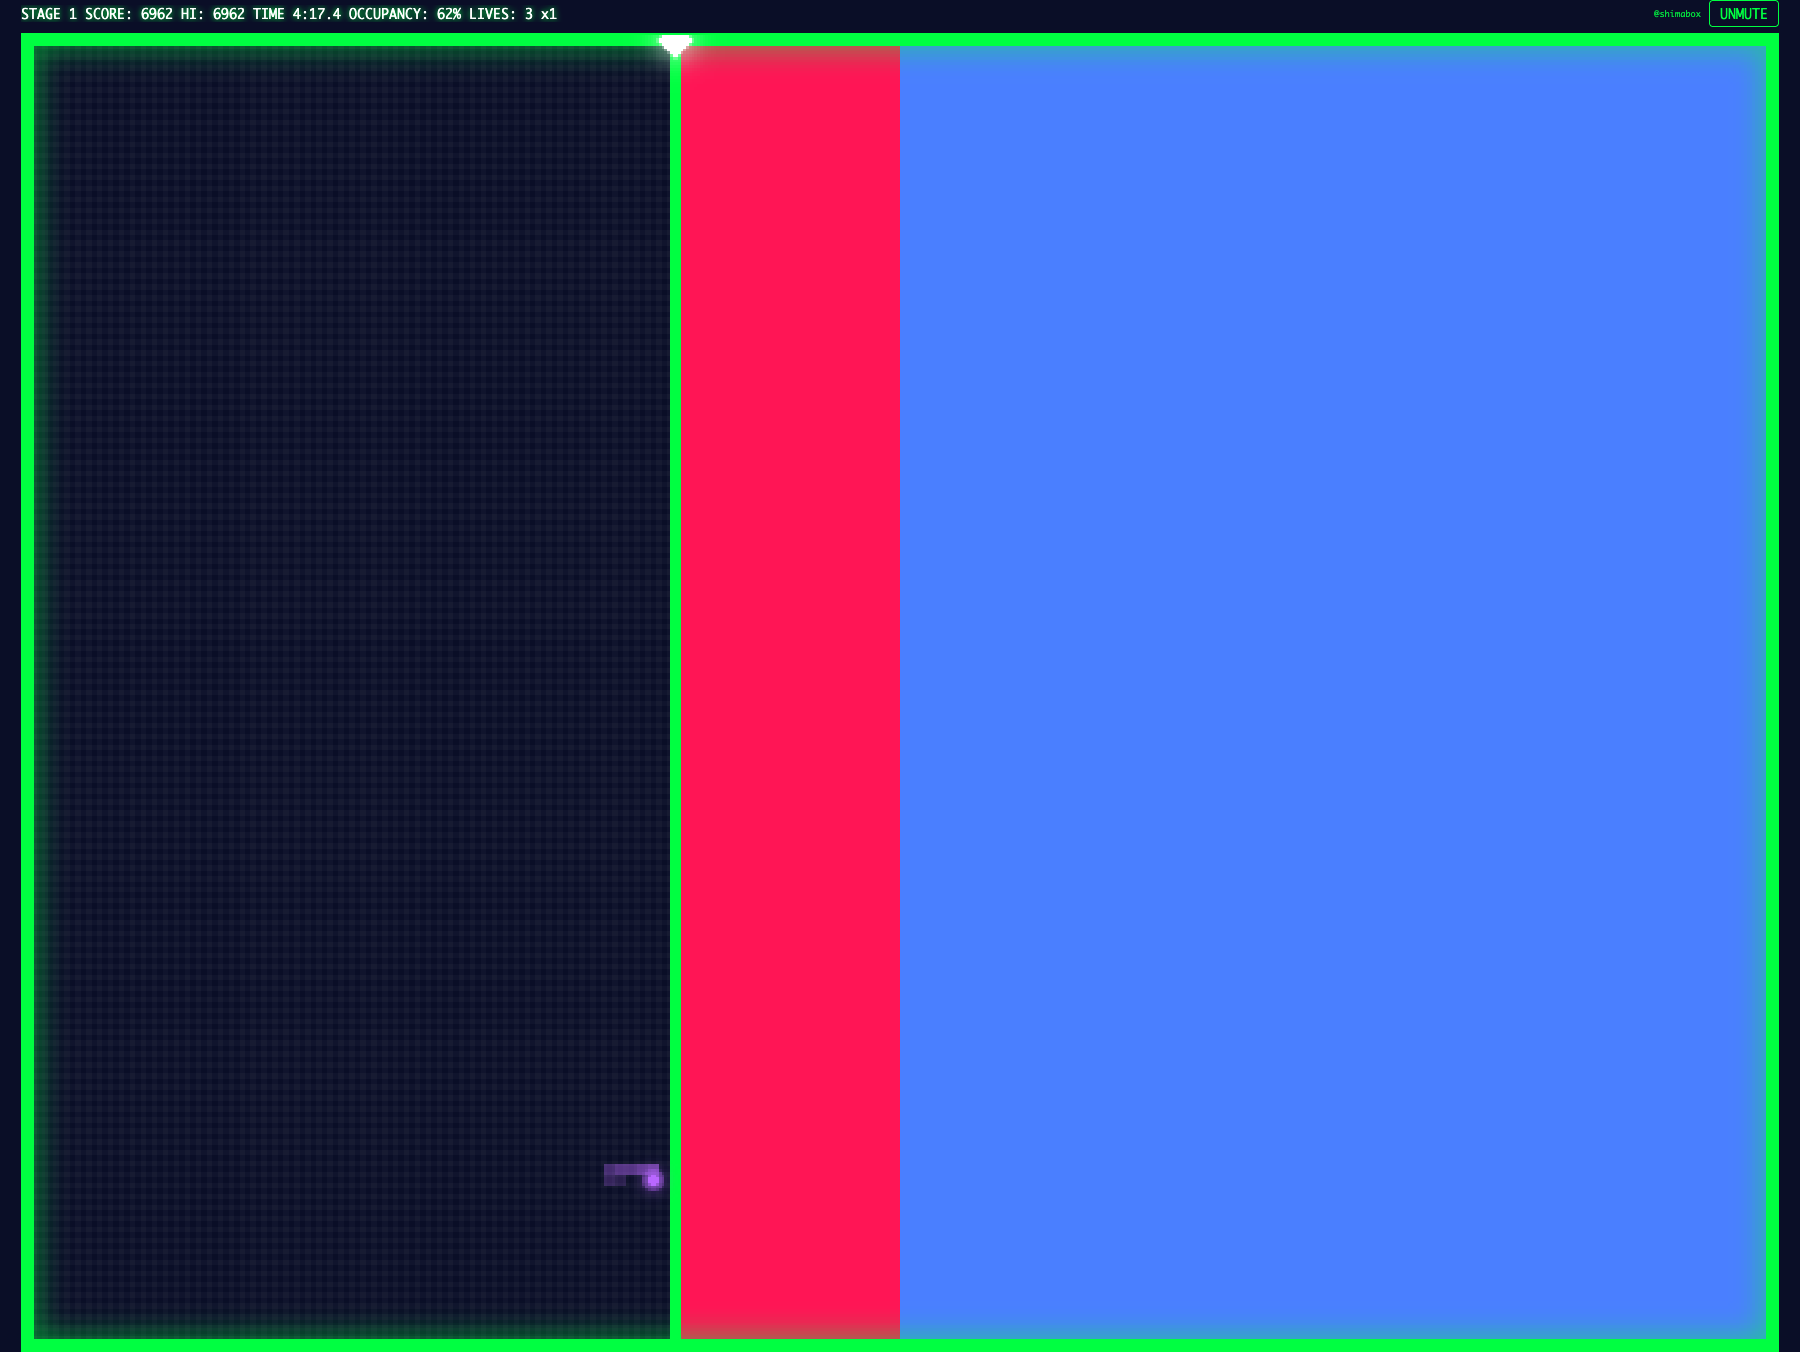
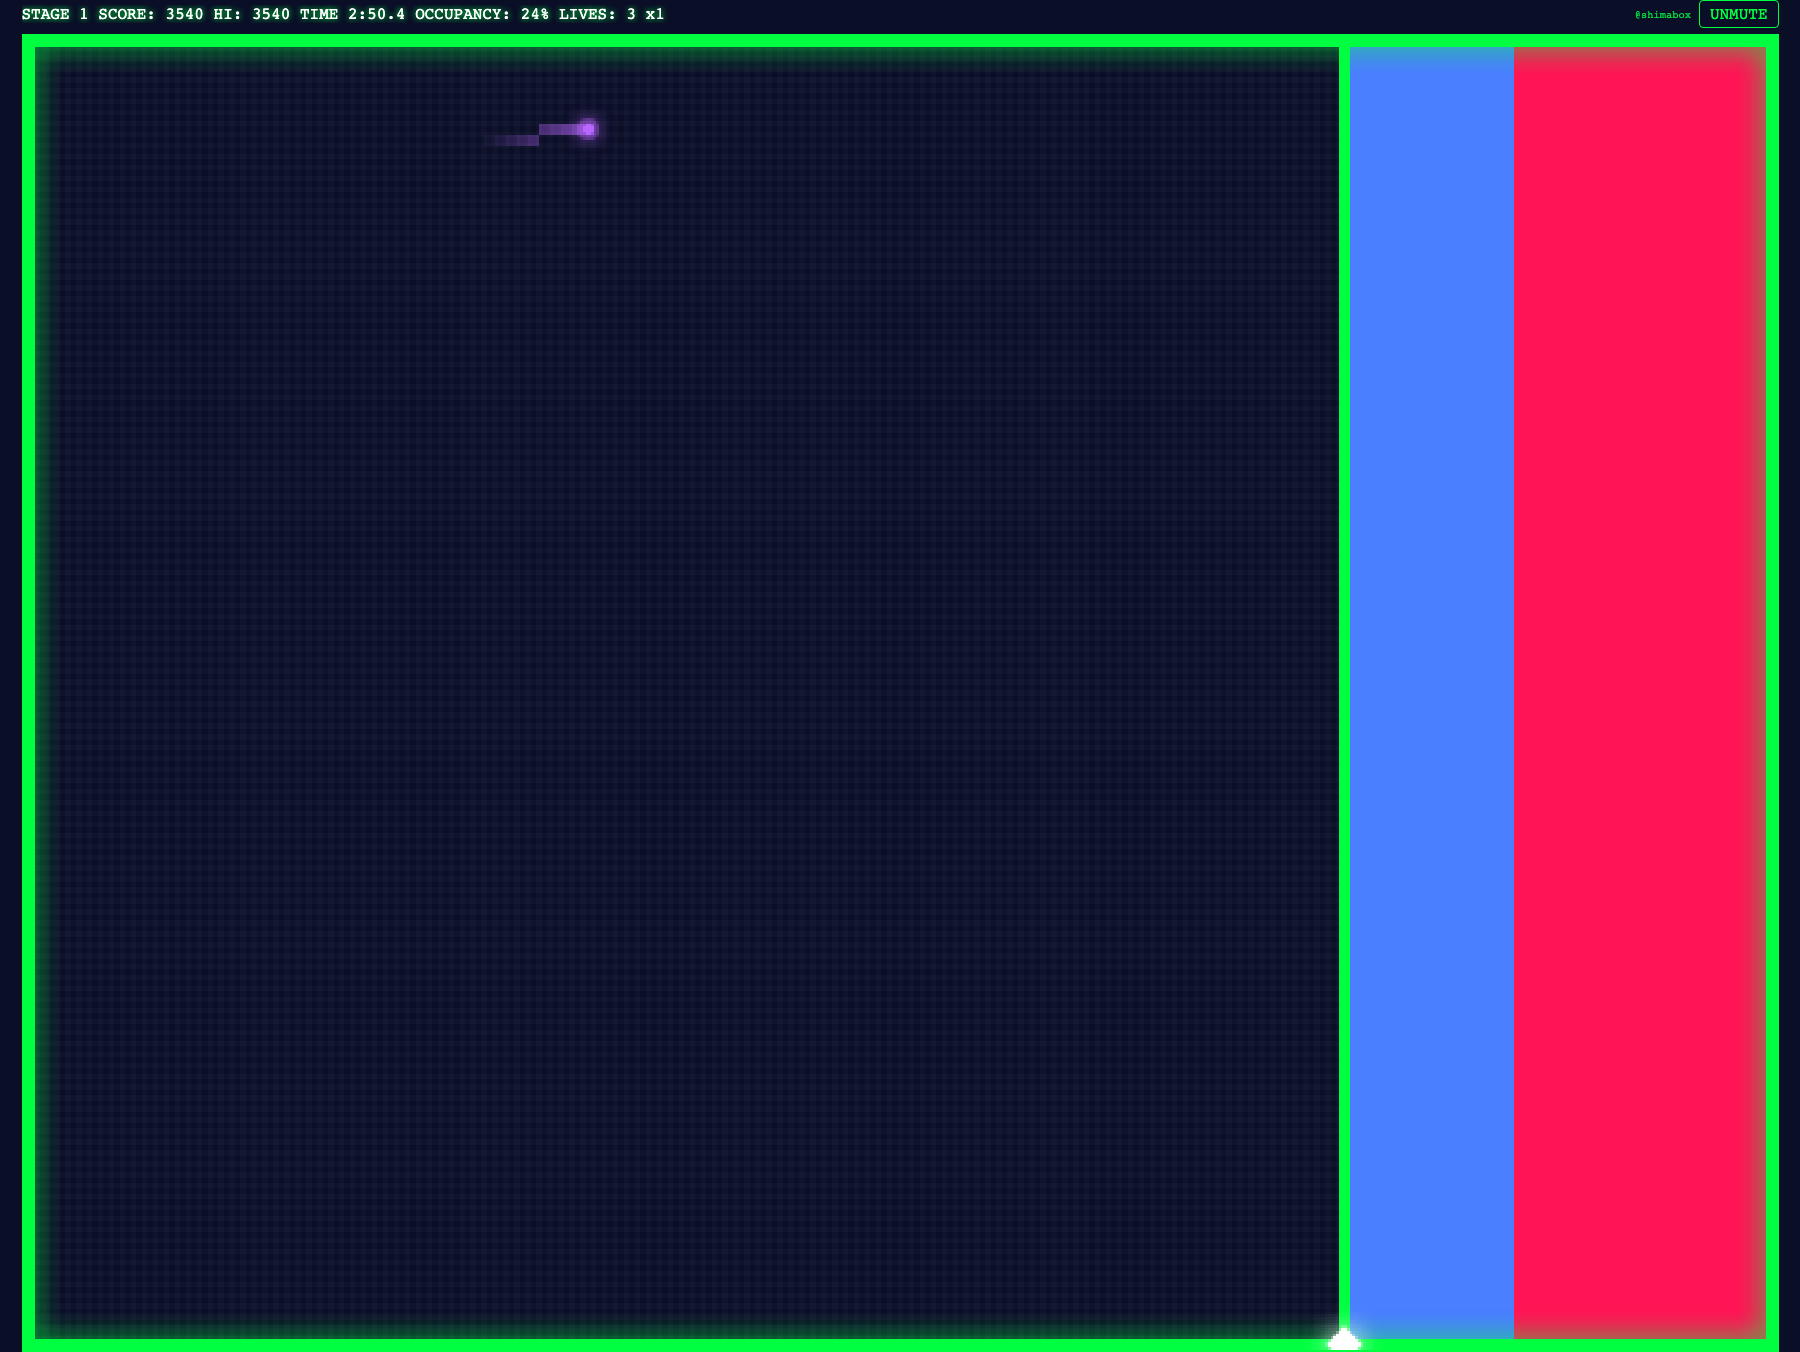
docs: update how-to-play.md and retake docs/images for the 3-minute time limit
- how-to-play.md: every "5分" reference (intro rule, HUD table's TIME row,
  §9 gameover explanation) updated to "3分", including the TIME example
  format.
- Retook every docs/images screenshot whose HUD shows TIME (title, hud,
  readme-title, readme-playing, readme-debug, mobile-playing, claim-fast,
  claim-slow, miss-hud, stageclear2, split-clear, gameover) against the
  current dev build via a scripted Playwright session, matching each
  image's existing crop style/pixel size and caption content. Images with
  no HUD in frame (border-move, line-drawing, retract-after, wisp, ember,
  ember-blaze, igniter, two-wisps-field, readme-share-card) are unaffected
  and left untouched.

diff --git a/docs/how-to-play.md b/docs/how-to-play.md
@@ -3,7 +3,7 @@
 **QIXXX（キックス）** は、線を引いて陣地を切り取っていく「陣取りアクションゲーム」です。
 敵に触れないように少しずつフィールドを塗りつぶし、**目標占有率（ステージ 1 は 65%。ステージが進むごとに上がり、ステージ 10 で最大の 90%）に達したらステージクリア**です。
 
-**1 プレイは実質 5 分間の時間制限つき。** 制限時間が尽きると、ライフが何個残っていても関係なく **TIME UP** でゲームオーバーになります。「5 分でどこまで稼げるか」が勝負です。
+**1 プレイは実質 3 分間の時間制限つき。** 制限時間が尽きると、ライフが何個残っていても関係なく **TIME UP** でゲームオーバーになります。「3 分でどこまで稼げるか」が勝負です。
 
 ![タイトル画面](images/title.png)
 
@@ -36,7 +36,7 @@ npm run dev
 | `STAGE 1` | 現在のステージ番号 |
 | `SCORE` | 現在のスコア |
 | `HI` | ハイスコア（ブラウザに保存され、次回も残ります） |
-| `TIME` | **残り時間のカウントダウン**（例 `4:59.9`）。1 プレイの持ち時間は実質 5 分固定で、0 になると即 TIME UP。**残り 30 秒を切ると文字色が警告色（赤）に変わります** |
+| `TIME` | **残り時間のカウントダウン**（例 `2:59.9`）。1 プレイの持ち時間は実質 3 分固定で、0 になると即 TIME UP。**残り 30 秒を切ると文字色が警告色（赤）に変わります** |
 | `OCCUPANCY` | **占有率**。フィールドの何 % を陣地にしたか。これが目標値（ステージ 1 は 65%。ステージが進むごとに上がり、ステージ 10 で最大の 90%）に達するとクリア |
 | `LIVES` | 残りライフ。**3 からスタート、0 でゲームオーバー**（ライフが残っていても、TIME が 0 になれば同様にゲームオーバーです） |
 | `x1` | 得点倍率（後述の「分断ボーナス」で上がります） |
@@ -220,7 +220,7 @@ npm run dev
 ゲームオーバーになるのは次の 2 パターンです。
 
 - **ライフが 0 になった**（通常のゲームオーバー）
-- **制限時間（実質 5 分）が 0 になった** — この場合はライフの残数に関係なく、画面に **TIME UP!** と表示されてゲームオーバーになります
+- **制限時間（実質 3 分）が 0 になった** — この場合はライフの残数に関係なく、画面に **TIME UP!** と表示されてゲームオーバーになります
 
 ゲームオーバー画面の **POST TO X** ボタンで、そのプレイのスコア・到達ステージを X にシェアできます（スコア入りカード画像付き）。**BACK TO TITLE**（または何かキー/タップ）でタイトルに戻ります。
 **ハイスコアはブラウザに自動保存**され、次回起動時のタイトル画面に表示されます。
